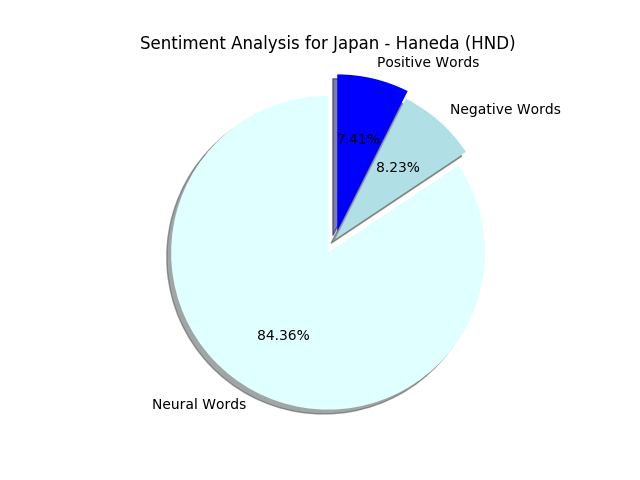
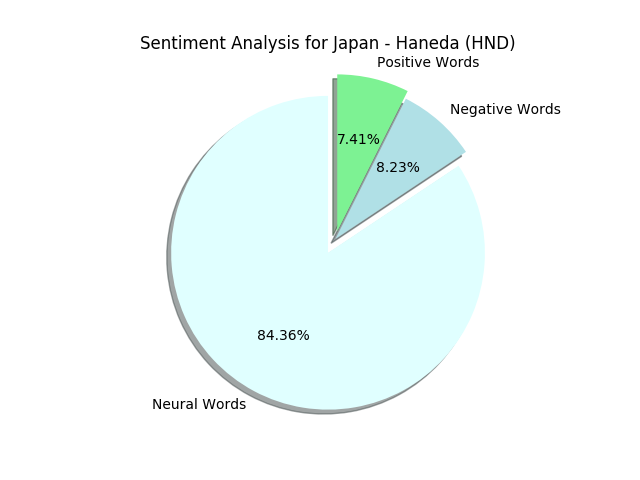
updated chart color

Changed region(s): [[0.5, 0.1562, 0.6562, 0.5]]

diff --git a/app.py b/app.py
@@ -73,7 +73,7 @@ def create_figure():
             sentiment_results[country]["negative_pct"],
             sentiment_results[country]["positive_pct"],
         ]
-        color = ['lightcyan', 'powderblue', 'blue']
+        color = ['lightcyan', 'powderblue', '#7df293']
         explode = (0.1, 0, 0.05)
         plt.pie(frequency, labels=labels, colors=color,
                 startangle=90, explode=explode, autopct='%0.2f%%', shadow=True)
